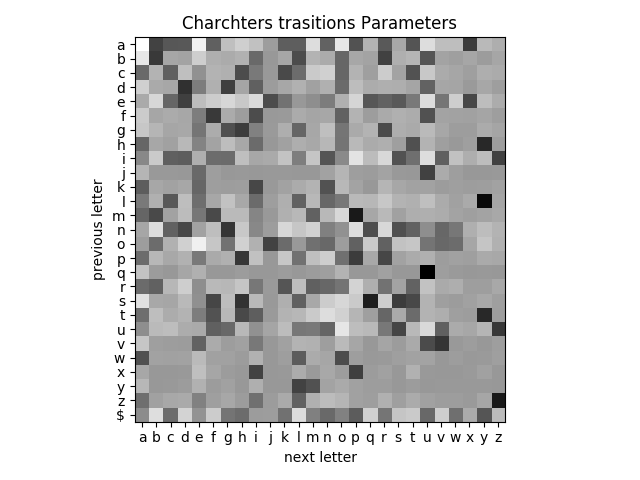
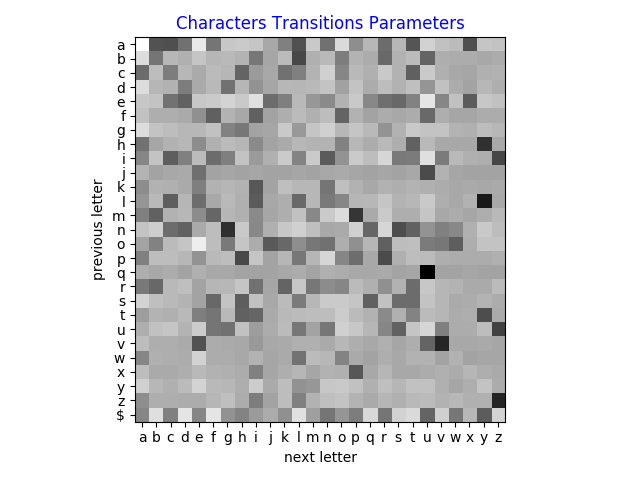
76 perc

diff --git a/ex2/structured_perceptron.py b/ex2/structured_perceptron.py
@@ -18,7 +18,7 @@ def init_perceptron(x_size, y_size):
     return (w,b)
 
 
-def phi(x, y_candidate, y_size):
+def phi(x, y_candidate):
     x_size = len(x)
     phi_xy = np.zeros(x_size * y_size)
     start = y_candidate*x_size
@@ -35,8 +35,12 @@ def train_perceptron(perceptron, train_data, y_size):
         for example in train_data:
             x = np.array(example[utils.PIXEL_VECTOR])
             y = utils.L2I(example[utils.LETTER])
-            phis = [phi(x, y_cand, y_size) for y_cand in range(y_size)]
-            results = [np.dot(w, phi_xy) + b[i] for i, phi_xy in enumerate(phis)]
+
+            phis = np.empty((y_size, (y_size*x_size)))
+            for y_candidate in range(y_size):
+                phis[y_candidate] =  phi(example[utils.PIXEL_VECTOR], y_candidate)
+
+            results = np.dot(phis, w) + b
             y_hat = int(np.argmax(results))
             w = w + (LR * (phis[y] - phis[y_hat]))
             b[y] = b[y] + LR
@@ -45,11 +49,6 @@ def train_perceptron(perceptron, train_data, y_size):
                 bad += 1
             else:
                 good += 1
-
-            iter = good+bad
-            # if iter % 1000 == 0:
-            #     print("iter: %d from %d" % (good+bad, len(train_data)))
-            #print("y: %d yhat: %d" % (y,y_hat))
 
         perc = (good / (good + bad)) * 100
         print("epoch no: %d acc = %.2f" % (epoch, perc))

diff --git a/ex2/heatmap.py b/ex2/heatmap.py
@@ -29,7 +29,7 @@ def plot_heatmap(w):
     plt.xlabel("next letter")
     plt.ylabel("previous letter")
     ax.set_yticklabels(utils.ALPHABET)
-    ax.set_title("Charchters trasitions Parameters")
+    ax.set_title("Characters Transitions Parameters", color="blue")
     fig.tight_layout()
     plt.savefig("w_heatmap.png")
 

diff --git a/ex2/utils.py b/ex2/utils.py
@@ -1,4 +1,5 @@
 from random import shuffle
+import numpy as np
 
 ID = 0
 LETTER = 1
@@ -39,7 +40,7 @@ def L2I(letter):
 
 def word_shuffle(train_data, shrink=-1):
     word = []
-    all_words =[]
+    all_words = []
     for line in train_data:
         if line[LETTER_POSITION] == 1:
             all_words.append(word)
